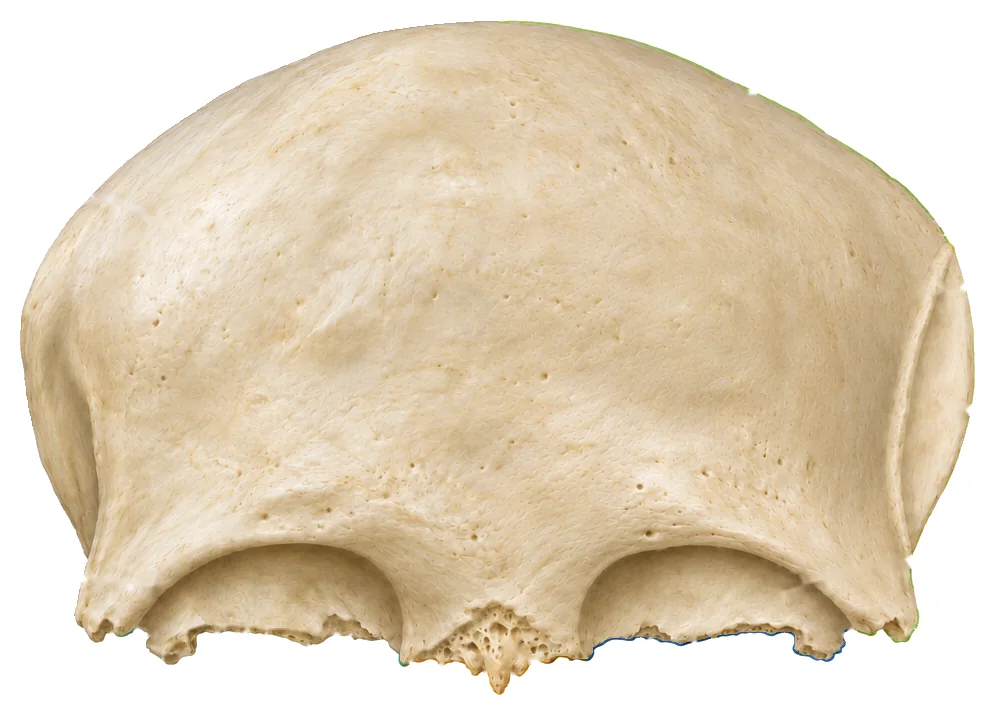
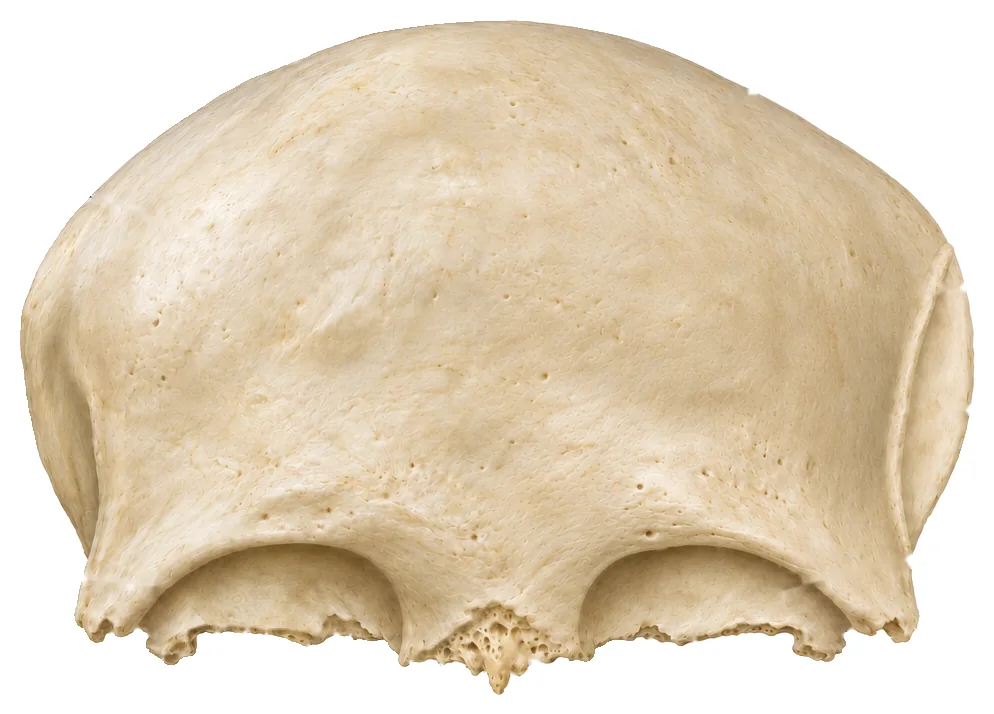
Układ kostny: kręgosłup (5 porcji); czystsze brzegi kości czaszki bez koloru

diff --git a/index.html b/index.html
@@ -1821,10 +1821,132 @@ const CZASZKA = [
     ["żuchwa (części) – trzon żuchwy", "Trzon żuchwy", {"img": "anatomia/real/zuchwa-czesci.webp", "imgc": "anatomia/real/zuchwa-czesci-kolor.webp", "view": "z boku – części", "hl": [[37.74, 91.71, 54.19, 82.32]]}],
   ] },
 ];
+// Kręgosłup: wszystkie podpisy to pytania. Dane: narzedzia/anatomia/realistyczne/kregoslup (stawy_fiszki.py, ALLQ=1).
+const KREGOSLUP = [
+  { id: "kr-atlas", name: "Atlas i obrotnik", range: "kręg szczytowy (C1) i obrotowy (C2)", words: [
+    ["atlas (góra) – guzek przedni", "Guzek przedni", {"img": "anatomia/real/atlas-gora.webp", "imgc": "anatomia/real/atlas-gora-kolor.webp", "view": "od góry", "hl": [[48.8, 0.0, 48.8, 6.94]]}],
+    ["atlas (góra) – część boczna", "Część boczna", {"img": "anatomia/real/atlas-gora.webp", "imgc": "anatomia/real/atlas-gora-kolor.webp", "view": "od góry", "hl": [[30.0, 0.0, 31.57, 35.9]]}],
+    ["atlas (góra) – łuk przedni", "Łuk przedni", {"img": "anatomia/real/atlas-gora.webp", "imgc": "anatomia/real/atlas-gora-kolor.webp", "view": "od góry", "hl": [[62.41, 3.17, 55.93, 13.27]]}],
+    ["atlas (góra) – otwór wyrostka poprzecznego", "Otwór wyrostka poprzecznego", {"img": "anatomia/real/atlas-gora.webp", "imgc": "anatomia/real/atlas-gora-kolor.webp", "view": "od góry", "hl": [[17.04, 21.27, 17.04, 38.91]]}],
+    ["atlas (góra) – dołek stawowy górny", "Dołek stawowy górny", {"img": "anatomia/real/atlas-gora.webp", "imgc": "anatomia/real/atlas-gora-kolor.webp", "view": "od góry", "hl": [[82.04, 18.25, 72.59, 26.09]]}],
+    ["atlas (góra) – bruzda tętnicy kręgowej", "Bruzda tętnicy kręgowej", {"img": "anatomia/real/atlas-gora.webp", "imgc": "anatomia/real/atlas-gora-kolor.webp", "view": "od góry", "hl": [[19.81, 68.17, 27.22, 68.17]]}],
+    ["atlas (góra) – dołek zębowy", "Dołek zębowy", {"img": "anatomia/real/atlas-gora.webp", "imgc": "anatomia/real/atlas-gora-kolor.webp", "view": "od góry", "hl": [[48.8, 49.17, 48.8, 17.19]]}],
+    ["atlas (góra) – wyrostek poprzeczny", "Wyrostek poprzeczny", {"img": "anatomia/real/atlas-gora.webp", "imgc": "anatomia/real/atlas-gora-kolor.webp", "view": "od góry", "hl": [[88.43, 60.48, 88.43, 43.29]]}],
+    ["atlas (góra) – otwór kręgowy", "Otwór kręgowy", {"img": "anatomia/real/atlas-gora.webp", "imgc": "anatomia/real/atlas-gora-kolor.webp", "view": "od góry", "hl": [[35.56, 89.89, 42.78, 69.98]]}],
+    ["atlas (góra) – łuk tylny", "Łuk tylny", {"img": "anatomia/real/atlas-gora.webp", "imgc": "anatomia/real/atlas-gora-kolor.webp", "view": "od góry", "hl": [[65.19, 89.14, 61.3, 80.84]]}],
+    ["atlas (góra) – guzek tylny", "Guzek tylny", {"img": "anatomia/real/atlas-gora.webp", "imgc": "anatomia/real/atlas-gora-kolor.webp", "view": "od góry", "hl": [[48.8, 100.0, 48.8, 92.91]]}],
+    ["atlas (bok) – łuk przedni", "Łuk przedni", {"img": "anatomia/real/atlas-bok.webp", "imgc": "anatomia/real/atlas-bok-kolor.webp", "view": "z boku", "hl": [[0.0, 33.83, 6.58, 33.83]]}],
+    ["atlas (bok) – łuk tylny", "Łuk tylny", {"img": "anatomia/real/atlas-bok.webp", "imgc": "anatomia/real/atlas-bok-kolor.webp", "view": "z boku", "hl": [[70.93, 78.44, 70.93, 61.69]]}],
+    ["atlas (bok) – część boczna", "Część boczna", {"img": "anatomia/real/atlas-bok.webp", "imgc": "anatomia/real/atlas-bok-kolor.webp", "view": "z boku", "hl": [[14.08, 100.0, 17.92, 77.61]]}],
+    ["atlas (bok) – wyrostek poprzeczny", "Wyrostek poprzeczny", {"img": "anatomia/real/atlas-bok.webp", "imgc": "anatomia/real/atlas-bok-kolor.webp", "view": "z boku", "hl": [[42.41, 100.0, 32.63, 67.66]]}],
+    ["obrotnik (góra) – blaszka łuku", "Blaszka łuku", {"img": "anatomia/real/obrotnik-gora.webp", "imgc": "anatomia/real/obrotnik-gora-kolor.webp", "view": "od góry", "hl": [[16.85, 20.93, 27.01, 32.8]]}],
+    ["obrotnik (góra) – łuk", "Łuk", {"img": "anatomia/real/obrotnik-gora.webp", "imgc": "anatomia/real/obrotnik-gora-kolor.webp", "view": "od góry", "hl": [[0.0, 32.93, 27.01, 32.8], [0.0, 32.93, 19.87, 48.4]], "tips": [[27.01, 32.8], [19.87, 48.4]]}],
+    ["obrotnik (góra) – nasada łuku", "Nasada łuku", {"img": "anatomia/real/obrotnik-gora.webp", "imgc": "anatomia/real/obrotnik-gora-kolor.webp", "view": "od góry", "hl": [[6.25, 48.4, 19.87, 48.4]]}],
+    ["obrotnik (góra) – wyrostek kolczysty", "Wyrostek kolczysty", {"img": "anatomia/real/obrotnik-gora.webp", "imgc": "anatomia/real/obrotnik-gora-kolor.webp", "view": "od góry", "hl": [[96.65, 17.47, 58.48, 17.47]]}],
+    ["obrotnik (góra) – trzon", "Trzon", {"img": "anatomia/real/obrotnik-gora.webp", "imgc": "anatomia/real/obrotnik-gora-kolor.webp", "view": "od góry", "hl": [[50.22, 60.0, 50.22, 68.53]]}],
+    ["obrotnik (góra) – wyrostek poprzeczny", "Wyrostek poprzeczny", {"img": "anatomia/real/obrotnik-gora.webp", "imgc": "anatomia/real/obrotnik-gora-kolor.webp", "view": "od góry", "hl": [[100.0, 70.0, 95.98, 70.0]]}],
+    ["obrotnik (góra) – powierzchnia stawowa górna", "Powierzchnia stawowa górna", {"img": "anatomia/real/obrotnik-gora.webp", "imgc": "anatomia/real/obrotnik-gora-kolor.webp", "view": "od góry", "hl": [[22.99, 100.0, 22.99, 88.13]]}],
+    ["obrotnik (góra) – ząb", "Ząb", {"img": "anatomia/real/obrotnik-gora.webp", "imgc": "anatomia/real/obrotnik-gora-kolor.webp", "view": "od góry", "hl": [[50.22, 98.0, 50.22, 87.33]]}],
+    ["obrotnik (bok) – powierzchnia stawowa przednia zęba", "Powierzchnia stawowa przednia zęba", {"img": "anatomia/real/obrotnik-bok.webp", "imgc": "anatomia/real/obrotnik-bok-kolor.webp", "view": "z boku", "hl": [[3.2, 19.4, 12.78, 19.4]]}],
+    ["obrotnik (bok) – ząb", "Ząb", {"img": "anatomia/real/obrotnik-bok.webp", "imgc": "anatomia/real/obrotnik-bok-kolor.webp", "view": "z boku", "hl": [[35.15, 6.4, 23.5, 6.4]]}],
+    ["obrotnik (bok) – powierzchnia stawowa tylna zęba", "Powierzchnia stawowa tylna zęba", {"img": "anatomia/real/obrotnik-bok.webp", "imgc": "anatomia/real/obrotnik-bok-kolor.webp", "view": "z boku", "hl": [[40.79, 30.7, 29.14, 30.7]]}],
+    ["obrotnik (bok) – wyrostek poprzeczny", "Wyrostek poprzeczny", {"img": "anatomia/real/obrotnik-bok.webp", "imgc": "anatomia/real/obrotnik-bok-kolor.webp", "view": "z boku", "hl": [[83.08, 38.79, 25.19, 79.28]]}],
+    ["obrotnik (bok) – powierzchnia stawowa górna", "Powierzchnia stawowa górna", {"img": "anatomia/real/obrotnik-bok.webp", "imgc": "anatomia/real/obrotnik-bok-kolor.webp", "view": "z boku", "hl": [[0.38, 47.46, 14.66, 47.46]]}],
+    ["obrotnik (bok) – trzon", "Trzon", {"img": "anatomia/real/obrotnik-bok.webp", "imgc": "anatomia/real/obrotnik-bok-kolor.webp", "view": "z boku", "hl": [[0.0, 71.19, 8.83, 71.19]]}],
+    ["obrotnik (bok) – wyrostek kolczysty", "Wyrostek kolczysty", {"img": "anatomia/real/obrotnik-bok.webp", "imgc": "anatomia/real/obrotnik-bok-kolor.webp", "view": "z boku", "hl": [[100.0, 90.02, 90.23, 90.02]]}],
+    ["obrotnik (bok) – otwór wyrostka poprzecznego", "Otwór wyrostka poprzecznego", {"img": "anatomia/real/obrotnik-bok.webp", "imgc": "anatomia/real/obrotnik-bok-kolor.webp", "view": "z boku", "hl": [[0.38, 84.93, 24.44, 73.26]]}],
+    ["obrotnik (bok) – wcięcie kręgowe dolne", "Wcięcie kręgowe dolne", {"img": "anatomia/real/obrotnik-bok.webp", "imgc": "anatomia/real/obrotnik-bok-kolor.webp", "view": "z boku", "hl": [[32.71, 100.0, 32.71, 81.73]]}],
+    ["obrotnik (bok) – wyrostek stawowy dolny", "Wyrostek stawowy dolny", {"img": "anatomia/real/obrotnik-bok.webp", "imgc": "anatomia/real/obrotnik-bok-kolor.webp", "view": "z boku", "hl": [[49.62, 100.0, 49.62, 88.89]]}],
+  ] },
+  { id: "kr-szyjne", name: "Kręgi szyjne", range: "typowy kręg szyjny", words: [
+    ["kręg szyjny – wyrostek kolczysty", "Wyrostek kolczysty", {"img": "anatomia/real/krag-szyjny.webp", "imgc": "anatomia/real/krag-szyjny-kolor.webp", "view": "od góry", "hl": [[64.39, 7.74, 59.43, 7.74]]}],
+    ["kręg szyjny – otwór kręgowy", "Otwór kręgowy", {"img": "anatomia/real/krag-szyjny.webp", "imgc": "anatomia/real/krag-szyjny-kolor.webp", "view": "od góry", "hl": [[26.35, 31.46, 39.03, 44.94]]}],
+    ["kręg szyjny – łuk", "Łuk", {"img": "anatomia/real/krag-szyjny.webp", "imgc": "anatomia/real/krag-szyjny-kolor.webp", "view": "od góry", "hl": [[72.33, 30.09, 62.73, 30.09]]}],
+    ["kręg szyjny – wyrostek stawowy górny", "Wyrostek stawowy górny", {"img": "anatomia/real/krag-szyjny.webp", "imgc": "anatomia/real/krag-szyjny-kolor.webp", "view": "od góry", "hl": [[85.12, 45.19, 85.12, 56.05]]}],
+    ["kręg szyjny – wcięcie kręgowe górne", "Wcięcie kręgowe górne", {"img": "anatomia/real/krag-szyjny.webp", "imgc": "anatomia/real/krag-szyjny-kolor.webp", "view": "od góry", "hl": [[65.49, 53.18, 74.86, 63.55]]}],
+    ["kręg szyjny – wyrostek stawowy dolny", "Wyrostek stawowy dolny", {"img": "anatomia/real/krag-szyjny.webp", "imgc": "anatomia/real/krag-szyjny-kolor.webp", "view": "od góry", "hl": [[100.0, 52.93, 91.73, 52.93]]}],
+    ["kręg szyjny – guzek tylny wyrostka poprzecznego", "Guzek tylny wyrostka poprzecznego", {"img": "anatomia/real/krag-szyjny.webp", "imgc": "anatomia/real/krag-szyjny-kolor.webp", "view": "od góry", "hl": [[0.0, 72.28, 3.97, 72.28]]}],
+    ["kręg szyjny – wyrostek poprzeczny", "Wyrostek poprzeczny", {"img": "anatomia/real/krag-szyjny.webp", "imgc": "anatomia/real/krag-szyjny-kolor.webp", "view": "od góry", "hl": [[0.0, 80.4, 3.97, 72.28], [0.0, 80.4, 11.36, 80.4], [0.0, 80.4, 15.1, 86.39]], "tips": [[3.97, 72.28], [11.36, 80.4], [15.1, 86.39]]}],
+    ["kręg szyjny – bruzda nerwu rdzeniowego", "Bruzda nerwu rdzeniowego", {"img": "anatomia/real/krag-szyjny.webp", "imgc": "anatomia/real/krag-szyjny-kolor.webp", "view": "od góry", "hl": [[5.07, 80.4, 11.36, 80.4]]}],
+    ["kręg szyjny – guzek przedni wyrostka poprzecznego", "Guzek przedni wyrostka poprzecznego", {"img": "anatomia/real/krag-szyjny.webp", "imgc": "anatomia/real/krag-szyjny-kolor.webp", "view": "od góry", "hl": [[8.16, 91.01, 15.1, 86.39]]}],
+    ["kręg szyjny – trzon", "Trzon", {"img": "anatomia/real/krag-szyjny.webp", "imgc": "anatomia/real/krag-szyjny-kolor.webp", "view": "od góry", "hl": [[37.38, 97.63, 41.9, 88.89]]}],
+    ["kręg szyjny – hak trzonu", "Hak trzonu", {"img": "anatomia/real/krag-szyjny.webp", "imgc": "anatomia/real/krag-szyjny-kolor.webp", "view": "od góry", "hl": [[70.23, 97.63, 70.23, 78.53]]}],
+    ["kręg szyjny – otwór wyrostka poprzecznego", "Otwór wyrostka poprzecznego", {"img": "anatomia/real/krag-szyjny.webp", "imgc": "anatomia/real/krag-szyjny-kolor.webp", "view": "od góry", "hl": [[93.61, 79.15, 83.79, 79.15]]}],
+  ] },
+  { id: "kr-piersiowe", name: "Kręgi piersiowe", range: "kręg piersiowy od góry i z boku", words: [
+    ["kręg piersiowy (góra) – wyrostek kolczysty", "Wyrostek kolczysty", {"img": "anatomia/real/krag-piersiowy-gora.webp", "imgc": "anatomia/real/krag-piersiowy-gora-kolor.webp", "view": "od góry", "hl": [[55.97, 4.69, 51.31, 4.69]]}],
+    ["kręg piersiowy (góra) – wyrostek poprzeczny", "Wyrostek poprzeczny", {"img": "anatomia/real/krag-piersiowy-gora.webp", "imgc": "anatomia/real/krag-piersiowy-gora-kolor.webp", "view": "od góry", "hl": [[5.13, 9.77, 9.98, 18.75]]}],
+    ["kręg piersiowy (góra) – dołek żebrowy wyrostka poprzecznego", "Dołek żebrowy wyrostka poprzecznego", {"img": "anatomia/real/krag-piersiowy-gora.webp", "imgc": "anatomia/real/krag-piersiowy-gora-kolor.webp", "view": "od góry", "hl": [[4.94, 26.37, 9.33, 26.37]]}],
+    ["kręg piersiowy (góra) – wyrostek stawowy górny", "Wyrostek stawowy górny", {"img": "anatomia/real/krag-piersiowy-gora.webp", "imgc": "anatomia/real/krag-piersiowy-gora-kolor.webp", "view": "od góry", "hl": [[22.85, 45.41, 32.37, 42.97]]}],
+    ["kręg piersiowy (góra) – blaszka łuku", "Blaszka łuku", {"img": "anatomia/real/krag-piersiowy-gora.webp", "imgc": "anatomia/real/krag-piersiowy-gora-kolor.webp", "view": "od góry", "hl": [[76.96, 47.85, 66.04, 36.33]]}],
+    ["kręg piersiowy (góra) – łuk", "Łuk", {"img": "anatomia/real/krag-piersiowy-gora.webp", "imgc": "anatomia/real/krag-piersiowy-gora-kolor.webp", "view": "od góry", "hl": [[95.15, 51.95, 66.04, 36.33], [95.15, 51.95, 69.03, 54.98]], "tips": [[66.04, 36.33], [69.03, 54.98]]}],
+    ["kręg piersiowy (góra) – nasada łuku", "Nasada łuku", {"img": "anatomia/real/krag-piersiowy-gora.webp", "imgc": "anatomia/real/krag-piersiowy-gora-kolor.webp", "view": "od góry", "hl": [[77.15, 54.98, 69.03, 54.98]]}],
+    ["kręg piersiowy (góra) – otwór kręgowy", "Otwór kręgowy", {"img": "anatomia/real/krag-piersiowy-gora.webp", "imgc": "anatomia/real/krag-piersiowy-gora-kolor.webp", "view": "od góry", "hl": [[76.96, 76.17, 54.48, 52.05]]}],
+    ["kręg piersiowy (góra) – trzon", "Trzon", {"img": "anatomia/real/krag-piersiowy-gora.webp", "imgc": "anatomia/real/krag-piersiowy-gora-kolor.webp", "view": "od góry", "hl": [[28.73, 88.87, 35.17, 82.23]]}],
+    ["kręg piersiowy (góra) – wcięcie kręgowe górne", "Wcięcie kręgowe górne", {"img": "anatomia/real/krag-piersiowy-gora.webp", "imgc": "anatomia/real/krag-piersiowy-gora-kolor.webp", "view": "od góry", "hl": [[23.79, 58.59, 33.86, 56.15]]}],
+    ["kręg piersiowy (bok) – wyrostek stawowy górny", "Wyrostek stawowy górny", {"img": "anatomia/real/krag-piersiowy-bok.webp", "imgc": "anatomia/real/krag-piersiowy-bok-kolor.webp", "view": "z boku", "hl": [[67.96, 0.0, 63.51, 4.45]]}],
+    ["kręg piersiowy (bok) – wcięcie kręgowe górne", "Wcięcie kręgowe górne", {"img": "anatomia/real/krag-piersiowy-bok.webp", "imgc": "anatomia/real/krag-piersiowy-bok-kolor.webp", "view": "z boku", "hl": [[50.4, 11.14, 50.4, 26.5]]}],
+    ["kręg piersiowy (bok) – dołek żebrowy górny", "Dołek żebrowy górny", {"img": "anatomia/real/krag-piersiowy-bok.webp", "imgc": "anatomia/real/krag-piersiowy-bok-kolor.webp", "view": "z boku", "hl": [[39.89, 20.27, 44.9, 32.07]]}],
+    ["kręg piersiowy (bok) – wyrostek poprzeczny", "Wyrostek poprzeczny", {"img": "anatomia/real/krag-piersiowy-bok.webp", "imgc": "anatomia/real/krag-piersiowy-bok-kolor.webp", "view": "z boku", "hl": [[75.65, 25.28, 68.93, 25.61]]}],
+    ["kręg piersiowy (bok) – trzon", "Trzon", {"img": "anatomia/real/krag-piersiowy-bok.webp", "imgc": "anatomia/real/krag-piersiowy-bok-kolor.webp", "view": "z boku", "hl": [[1.46, 47.33, 8.74, 47.33]]}],
+    ["kręg piersiowy (bok) – wyrostek kolczysty", "Wyrostek kolczysty", {"img": "anatomia/real/krag-piersiowy-bok.webp", "imgc": "anatomia/real/krag-piersiowy-bok-kolor.webp", "view": "z boku", "hl": [[86.57, 51.22, 80.02, 51.22]]}],
+    ["kręg piersiowy (bok) – dołek żebrowy dolny", "Dołek żebrowy dolny", {"img": "anatomia/real/krag-piersiowy-bok.webp", "imgc": "anatomia/real/krag-piersiowy-bok-kolor.webp", "view": "z boku", "hl": [[45.06, 69.93, 45.06, 60.8]]}],
+    ["kręg piersiowy (bok) – wcięcie kręgowe dolne", "Wcięcie kręgowe dolne", {"img": "anatomia/real/krag-piersiowy-bok.webp", "imgc": "anatomia/real/krag-piersiowy-bok-kolor.webp", "view": "z boku", "hl": [[57.2, 79.06, 57.2, 49.22]]}],
+    ["kręg piersiowy (bok) – wyrostek stawowy dolny", "Wyrostek stawowy dolny", {"img": "anatomia/real/krag-piersiowy-bok.webp", "imgc": "anatomia/real/krag-piersiowy-bok-kolor.webp", "view": "z boku", "hl": [[71.44, 87.97, 71.44, 60.58]]}],
+  ] },
+  { id: "kr-ledzwiowe", name: "Kręgi lędźwiowe", range: "kręg lędźwiowy od góry i z boku", words: [
+    ["kręg lędźwiowy (góra) – wyrostek kolczysty", "Wyrostek kolczysty", {"img": "anatomia/real/krag-ledzwiowy-gora.webp", "imgc": "anatomia/real/krag-ledzwiowy-gora-kolor.webp", "view": "od góry", "hl": [[61.17, 3.42, 52.65, 3.42]]}],
+    ["kręg lędźwiowy (góra) – wyrostek stawowy górny", "Wyrostek stawowy górny", {"img": "anatomia/real/krag-ledzwiowy-gora.webp", "imgc": "anatomia/real/krag-ledzwiowy-gora-kolor.webp", "view": "od góry", "hl": [[30.21, 20.02, 29.64, 25.68]]}],
+    ["kręg lędźwiowy (góra) – wyrostek stawowy dolny", "Wyrostek stawowy dolny", {"img": "anatomia/real/krag-ledzwiowy-gora.webp", "imgc": "anatomia/real/krag-ledzwiowy-gora-kolor.webp", "view": "od góry", "hl": [[62.12, 20.51, 62.12, 29.1]]}],
+    ["kręg lędźwiowy (góra) – wyrostek sutkowy", "Wyrostek sutkowy", {"img": "anatomia/real/krag-ledzwiowy-gora.webp", "imgc": "anatomia/real/krag-ledzwiowy-gora-kolor.webp", "view": "od góry", "hl": [[18.56, 16.11, 25.0, 22.07]]}],
+    ["kręg lędźwiowy (góra) – wyrostek dodatkowy", "Wyrostek dodatkowy", {"img": "anatomia/real/krag-ledzwiowy-gora.webp", "imgc": "anatomia/real/krag-ledzwiowy-gora-kolor.webp", "view": "od góry", "hl": [[15.06, 27.54, 20.93, 32.91]]}],
+    ["kręg lędźwiowy (góra) – wyrostek żebrowy", "Wyrostek żebrowy", {"img": "anatomia/real/krag-ledzwiowy-gora.webp", "imgc": "anatomia/real/krag-ledzwiowy-gora-kolor.webp", "view": "od góry", "hl": [[4.55, 41.8, 13.54, 39.16]]}],
+    ["kręg lędźwiowy (góra) – wcięcie kręgowe górne", "Wcięcie kręgowe górne", {"img": "anatomia/real/krag-ledzwiowy-gora.webp", "imgc": "anatomia/real/krag-ledzwiowy-gora-kolor.webp", "view": "od góry", "hl": [[16.0, 53.71, 30.21, 48.44]]}],
+    ["kręg lędźwiowy (góra) – blaszka łuku", "Blaszka łuku", {"img": "anatomia/real/krag-ledzwiowy-gora.webp", "imgc": "anatomia/real/krag-ledzwiowy-gora-kolor.webp", "view": "od góry", "hl": [[80.59, 45.41, 57.2, 34.96]]}],
+    ["kręg lędźwiowy (góra) – łuk", "Łuk", {"img": "anatomia/real/krag-ledzwiowy-gora.webp", "imgc": "anatomia/real/krag-ledzwiowy-gora-kolor.webp", "view": "od góry", "hl": [[99.05, 50.78, 57.2, 34.96], [99.05, 50.78, 73.2, 49.02]], "tips": [[57.2, 34.96], [73.2, 49.02]]}],
+    ["kręg lędźwiowy (góra) – nasada łuku", "Nasada łuku", {"img": "anatomia/real/krag-ledzwiowy-gora.webp", "imgc": "anatomia/real/krag-ledzwiowy-gora-kolor.webp", "view": "od góry", "hl": [[80.78, 54.39, 73.2, 49.02]]}],
+    ["kręg lędźwiowy (góra) – otwór kręgowy", "Otwór kręgowy", {"img": "anatomia/real/krag-ledzwiowy-gora.webp", "imgc": "anatomia/real/krag-ledzwiowy-gora-kolor.webp", "view": "od góry", "hl": [[84.85, 83.01, 51.04, 49.32]]}],
+    ["kręg lędźwiowy (góra) – trzon", "Trzon", {"img": "anatomia/real/krag-ledzwiowy-gora.webp", "imgc": "anatomia/real/krag-ledzwiowy-gora-kolor.webp", "view": "od góry", "hl": [[24.24, 94.73, 31.16, 88.18]]}],
+    ["kręg lędźwiowy (bok) – wcięcie kręgowe górne", "Wcięcie kręgowe górne", {"img": "anatomia/real/krag-ledzwiowy-bok.webp", "imgc": "anatomia/real/krag-ledzwiowy-bok-kolor.webp", "view": "z boku", "hl": [[53.56, 20.86, 58.33, 25.61]]}],
+    ["kręg lędźwiowy (bok) – wyrostek sutkowy", "Wyrostek sutkowy", {"img": "anatomia/real/krag-ledzwiowy-bok.webp", "imgc": "anatomia/real/krag-ledzwiowy-bok-kolor.webp", "view": "z boku", "hl": [[84.79, 14.1, 78.58, 14.1]]}],
+    ["kręg lędźwiowy (bok) – wyrostek stawowy górny", "Wyrostek stawowy górny", {"img": "anatomia/real/krag-ledzwiowy-bok.webp", "imgc": "anatomia/real/krag-ledzwiowy-bok-kolor.webp", "view": "z boku", "hl": [[83.89, 24.17, 73.54, 24.17]]}],
+    ["kręg lędźwiowy (bok) – wyrostek żebrowy", "Wyrostek żebrowy", {"img": "anatomia/real/krag-ledzwiowy-bok.webp", "imgc": "anatomia/real/krag-ledzwiowy-bok-kolor.webp", "view": "z boku", "hl": [[79.39, 34.82, 69.49, 34.82]]}],
+    ["kręg lędźwiowy (bok) – trzon", "Trzon", {"img": "anatomia/real/krag-ledzwiowy-bok.webp", "imgc": "anatomia/real/krag-ledzwiowy-bok-kolor.webp", "view": "z boku", "hl": [[0.0, 58.13, 7.83, 58.13]]}],
+    ["kręg lędźwiowy (bok) – wyrostek kolczysty", "Wyrostek kolczysty", {"img": "anatomia/real/krag-ledzwiowy-bok.webp", "imgc": "anatomia/real/krag-ledzwiowy-bok-kolor.webp", "view": "z boku", "hl": [[100.0, 61.44, 92.08, 61.44]]}],
+    ["kręg lędźwiowy (bok) – wcięcie kręgowe dolne", "Wcięcie kręgowe dolne", {"img": "anatomia/real/krag-ledzwiowy-bok.webp", "imgc": "anatomia/real/krag-ledzwiowy-bok-kolor.webp", "view": "z boku", "hl": [[55.36, 88.49, 55.36, 62.73]]}],
+    ["kręg lędźwiowy (bok) – wyrostek stawowy dolny", "Wyrostek stawowy dolny", {"img": "anatomia/real/krag-ledzwiowy-bok.webp", "imgc": "anatomia/real/krag-ledzwiowy-bok-kolor.webp", "view": "z boku", "hl": [[76.96, 88.49, 70.66, 84.46]]}],
+  ] },
+  { id: "kr-krzyzowa", name: "Kość krzyżowa i guziczna", range: "os sacrum, os coccygis", words: [
+    ["kość krzyżowa (tył) – część boczna kości krzyżowej", "Część boczna kości krzyżowej", {"img": "anatomia/real/kosc-krzyzowa-tyl.webp", "imgc": "anatomia/real/kosc-krzyzowa-tyl-kolor.webp", "view": "od tyłu", "hl": [[2.4, 8.23, 2.4, 5.76], [2.4, 5.76, 3.6, 4.39], [3.6, 4.39, 14.41, 4.39], [14.41, 4.39, 15.85, 2.74], [15.85, 2.74, 17.29, 4.39], [17.29, 4.39, 28.21, 4.39], [28.21, 4.39, 29.77, 5.76], [29.77, 5.76, 30.61, 14.4]], "tips": []}],
+    ["kość krzyżowa (tył) – kanał krzyżowy", "Kanał krzyżowy", {"img": "anatomia/real/kosc-krzyzowa-tyl.webp", "imgc": "anatomia/real/kosc-krzyzowa-tyl-kolor.webp", "view": "od tyłu", "hl": [[48.26, 2.74, 48.26, 12.07]]}],
+    ["kość krzyżowa (tył) – wyrostek stawowy górny kości krzyżowej", "Wyrostek stawowy górny kości krzyżowej", {"img": "anatomia/real/kosc-krzyzowa-tyl.webp", "imgc": "anatomia/real/kosc-krzyzowa-tyl-kolor.webp", "view": "od tyłu", "hl": [[73.83, 1.65, 68.19, 9.33]]}],
+    ["kość krzyżowa (tył) – guzowatość krzyżowa", "Guzowatość krzyżowa", {"img": "anatomia/real/kosc-krzyzowa-tyl.webp", "imgc": "anatomia/real/kosc-krzyzowa-tyl-kolor.webp", "view": "od tyłu", "hl": [[99.64, 31.82, 87.27, 34.29]]}],
+    ["kość krzyżowa (tył) – powierzchnia uchowata kości krzyżowej", "Powierzchnia uchowata kości krzyżowej", {"img": "anatomia/real/kosc-krzyzowa-tyl.webp", "imgc": "anatomia/real/kosc-krzyzowa-tyl-kolor.webp", "view": "od tyłu", "hl": [[99.64, 45.27, 94.6, 43.48]]}],
+    ["kość krzyżowa (tył) – grzebień krzyżowy pośrodkowy", "Grzebień krzyżowy pośrodkowy", {"img": "anatomia/real/kosc-krzyzowa-tyl.webp", "imgc": "anatomia/real/kosc-krzyzowa-tyl-kolor.webp", "view": "od tyłu", "hl": [[88.6, 63.92, 51.5, 56.79]]}],
+    ["kość krzyżowa (tył) – grzebień krzyżowy pośredni", "Grzebień krzyżowy pośredni", {"img": "anatomia/real/kosc-krzyzowa-tyl.webp", "imgc": "anatomia/real/kosc-krzyzowa-tyl-kolor.webp", "view": "od tyłu", "hl": [[88.6, 76.82, 59.66, 71.88]]}],
+    ["kość krzyżowa (tył) – grzebień krzyżowy boczny", "Grzebień krzyżowy boczny", {"img": "anatomia/real/kosc-krzyzowa-tyl.webp", "imgc": "anatomia/real/kosc-krzyzowa-tyl-kolor.webp", "view": "od tyłu", "hl": [[89.08, 88.48, 71.07, 83.68]]}],
+    ["kość krzyżowa (tył) – otwory krzyżowe tylne", "Otwory krzyżowe tylne", {"img": "anatomia/real/kosc-krzyzowa-tyl.webp", "imgc": "anatomia/real/kosc-krzyzowa-tyl-kolor.webp", "view": "od tyłu", "hl": [[20.41, 74.07, 35.65, 54.6], [20.41, 74.07, 37.94, 69.0]], "tips": [[35.65, 54.6], [37.94, 69.0]]}],
+    ["kość krzyżowa (tył) – wierzchołek kości krzyżowej", "Wierzchołek kości krzyżowej", {"img": "anatomia/real/kosc-krzyzowa-tyl.webp", "imgc": "anatomia/real/kosc-krzyzowa-tyl-kolor.webp", "view": "od tyłu", "hl": [[42.62, 100.0, 45.98, 96.84]]}],
+    ["kość krzyżowa (tył) – rożek krzyżowy", "Rożek krzyżowy", {"img": "anatomia/real/kosc-krzyzowa-tyl.webp", "imgc": "anatomia/real/kosc-krzyzowa-tyl-kolor.webp", "view": "od tyłu", "hl": [[66.63, 98.77, 59.78, 91.36]]}],
+    ["kość krzyżowa (tył) – rozwór krzyżowy", "Rozwór krzyżowy", {"img": "anatomia/real/kosc-krzyzowa-tyl.webp", "imgc": "anatomia/real/kosc-krzyzowa-tyl-kolor.webp", "view": "od tyłu", "hl": [[56.42, 100.0, 50.66, 74.07]]}],
+    ["kość krzyżowa (przód) – skrzydło kości krzyżowej", "Skrzydło kości krzyżowej", {"img": "anatomia/real/kosc-krzyzowa-przod.webp", "imgc": "anatomia/real/kosc-krzyzowa-przod-kolor.webp", "view": "od przodu", "hl": [[7.66, 0.29, 11.24, 10.71]]}],
+    ["kość krzyżowa (przód) – wyrostek stawowy górny kości krzyżowej", "Wyrostek stawowy górny kości krzyżowej", {"img": "anatomia/real/kosc-krzyzowa-przod.webp", "imgc": "anatomia/real/kosc-krzyzowa-przod-kolor.webp", "view": "od przodu", "hl": [[31.29, 1.0, 30.91, 5.57]]}],
+    ["kość krzyżowa (przód) – wzgórek kości krzyżowej", "Wzgórek kości krzyżowej", {"img": "anatomia/real/kosc-krzyzowa-przod.webp", "imgc": "anatomia/real/kosc-krzyzowa-przod-kolor.webp", "view": "od przodu", "hl": [[48.91, 1.0, 41.0, 24.86]]}],
+    ["kość krzyżowa (przód) – podstawa kości krzyżowej", "Podstawa kości krzyżowej", {"img": "anatomia/real/kosc-krzyzowa-przod.webp", "imgc": "anatomia/real/kosc-krzyzowa-przod-kolor.webp", "view": "od przodu", "hl": [[65.13, 2.86, 94.89, 2.86], [94.89, 2.86, 95.91, 4.29], [95.91, 4.29, 95.91, 22.86], [95.91, 22.86, 97.45, 24.29], [97.45, 24.29, 95.91, 25.71], [95.91, 25.71, 95.91, 44.86], [95.91, 44.86, 94.89, 46.29], [94.89, 46.29, 90.68, 46.29]], "tips": []}],
+    ["kość krzyżowa (przód) – otwory krzyżowe przednie", "Otwory krzyżowe przednie", {"img": "anatomia/real/kosc-krzyzowa-przod.webp", "imgc": "anatomia/real/kosc-krzyzowa-przod-kolor.webp", "view": "od przodu", "hl": [[78.8, 63.43, 61.56, 52.71], [78.8, 63.86, 60.92, 64.43]], "tips": [[61.56, 52.71], [60.92, 64.43]]}],
+    ["kość krzyżowa (przód) – kresy poprzeczne", "Kresy poprzeczne", {"img": "anatomia/real/kosc-krzyzowa-przod.webp", "imgc": "anatomia/real/kosc-krzyzowa-przod-kolor.webp", "view": "od przodu", "hl": [[80.08, 79.14, 55.94, 71.43], [80.08, 79.57, 55.17, 81.43]], "tips": [[55.94, 71.43], [55.17, 81.43]]}],
+    ["kość krzyżowa (przód) – wierzchołek kości krzyżowej", "Wierzchołek kości krzyżowej", {"img": "anatomia/real/kosc-krzyzowa-przod.webp", "imgc": "anatomia/real/kosc-krzyzowa-przod-kolor.webp", "view": "od przodu", "hl": [[61.3, 95.29, 56.45, 90.0]]}],
+    ["kość krzyżowa (przód) – część boczna kości krzyżowej", "Część boczna kości krzyżowej", {"img": "anatomia/real/kosc-krzyzowa-przod.webp", "imgc": "anatomia/real/kosc-krzyzowa-przod-kolor.webp", "view": "od przodu", "hl": [[3.83, 43.14, 10.6, 95.71], [10.6, 95.71, 11.88, 97.14], [11.88, 97.14, 23.37, 97.14], [23.37, 97.14, 24.39, 95.43], [24.39, 95.43, 25.67, 97.14], [25.67, 97.14, 35.89, 97.14], [35.89, 97.14, 37.16, 95.71], [37.16, 95.71, 37.16, 88.14]], "tips": []}],
+    ["kość guziczna – rożek guziczny", "Rożek guziczny", {"img": "anatomia/real/kosc-guziczna.webp", "imgc": "anatomia/real/kosc-guziczna-kolor.webp", "view": "od przodu i z boku", "hl": [[49.03, 2.16, 37.32, 7.87], [64.41, 2.78, 72.58, 9.1]], "tips": [[37.32, 7.87], [72.58, 9.1]]}],
+    ["kość guziczna – wyrostek poprzeczny", "Wyrostek poprzeczny", {"img": "anatomia/real/kosc-guziczna.webp", "imgc": "anatomia/real/kosc-guziczna-kolor.webp", "view": "od przodu i z boku", "hl": [[50.84, 29.01, 43.88, 26.7], [67.56, 28.7, 80.0, 26.85]], "tips": [[43.88, 26.7], [80.0, 26.85]]}],
+    ["kość guziczna – kręgi guziczne", "Kręgi guziczne", {"img": "anatomia/real/kosc-guziczna.webp", "imgc": "anatomia/real/kosc-guziczna-kolor.webp", "view": "od przodu i z boku", "hl": [[53.38, 68.52, 31.3, 54.63], [53.38, 69.14, 29.57, 73.77], [68.23, 67.59, 84.15, 53.09], [68.9, 68.83, 88.7, 73.77]], "tips": [[31.3, 54.63], [29.57, 73.77], [84.15, 53.09], [88.7, 73.77]]}],
+  ] },
+];
 const ANATOMIA = [
   { id: "kg", name: "Kończyna górna", range: "kości kończyny górnej", rounds: KONCZYNA_GORNA, allId: "kg-all" },
   { id: "kd", name: "Kończyna dolna", range: "kości kończyny dolnej", rounds: KONCZYNA_DOLNA, allId: "kd-all" },
   { id: "cz", name: "Czaszka", range: "czaszka i kości czaszki", rounds: CZASZKA, allId: "cz-all" },
+  { id: "kr", name: "Kręgosłup", range: "kręgi, kość krzyżowa i guziczna", rounds: KREGOSLUP, allId: "kr-all" },
 ];
 // Stawy i więzadła: rysunki z podpisanymi kośćmi (zostają widoczne), pytanie o więzadła, torebki i ścięgna.
 // Dane generuje narzedzia/anatomia/realistyczne/stawy_fiszki.py (stawy/fiszki.json).
@@ -2143,7 +2265,7 @@ const SECTIONS = [
     unit: ["fiszka", "fiszki", "fiszek"], groups: [...ANATOMIA, ...STAWY],
     // dodatkowy poziom: dział → grupy → porcje
     parts: [
-      { id: "kostny", name: "Układ kostny", desc: "Kości kończyn i czaszki", groups: ANATOMIA },
+      { id: "kostny", name: "Układ kostny", desc: "Kości kończyn, czaszki i kręgosłupa", groups: ANATOMIA },
       { id: "wiezadla", name: "Stawy i więzadła", desc: "Więzadła i torebki stawowe", groups: STAWY },
     ] },
   { id: "ruch", name: "Kształcenie ruchowe", desc: "Nazewnictwo pozycji i ćwiczeń gimnastycznych na rysunkach", images: true,
